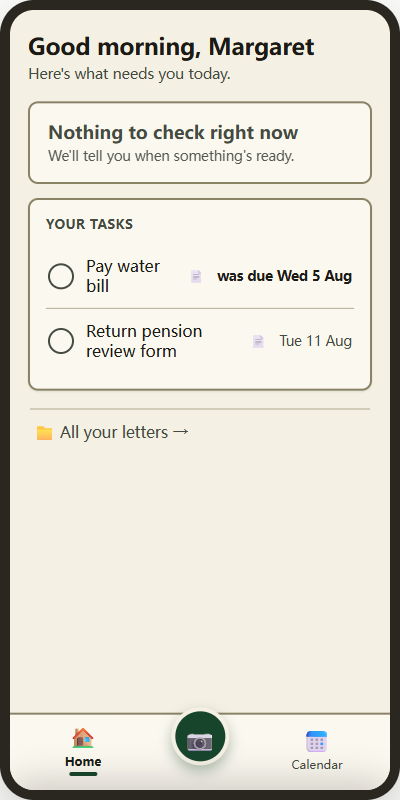
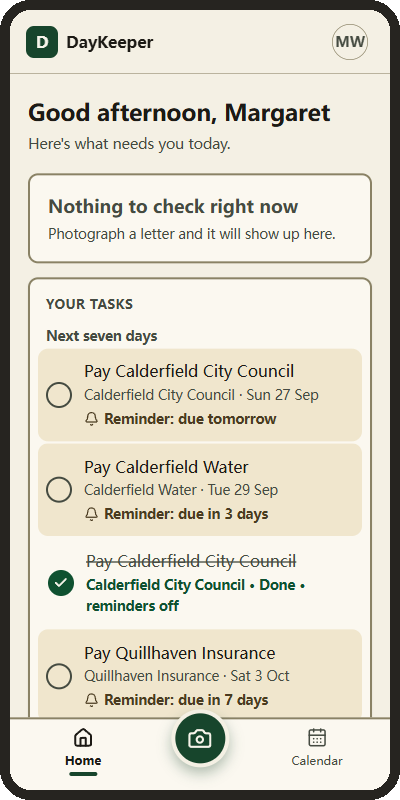
Describe reminders as days marked on Home in the docs and landing page
KAN-62, KAN-79. api.md, scope.md, start-here.md and theme.md no longer
describe a reminder being sent, fired or timed. The landing page's two
screenshots are retaken from the product: Home with its reminder rows,
and a calendar with only due date dots.

diff --git a/src/app/page.tsx b/src/app/page.tsx
@@ -160,7 +160,7 @@ export default function PublicEntryPage() {
             <div className="w-[54%] overflow-hidden rounded-2xl border border-border shadow-lg">
               <Image
                 src="/screens/home.png"
-                alt="DayKeeper's home screen: a short list of tasks, one overdue, one upcoming."
+                alt="DayKeeper's home screen: the week's tasks, three of them marked with a reminder."
                 width={400}
                 height={800}
                 className="h-auto w-full"
@@ -170,7 +170,7 @@ export default function PublicEntryPage() {
             <div className="mt-10 w-[54%] overflow-hidden rounded-2xl border border-border shadow-lg">
               <Image
                 src="/screens/calendar.png"
-                alt="DayKeeper's calendar: due dates in red, reminder mornings in gold."
+                alt="DayKeeper's calendar: a red dot on each day something is due."
                 width={400}
                 height={800}
                 className="h-auto w-full"

diff --git a/docs/api.md b/docs/api.md
@@ -30,7 +30,7 @@ reasoning attached. This document names them and does not repeat them:
 | what a field's status means, and `open_payload` | `src/lib/contract/extraction.ts` |
 | showing rather than asking, the upload limits, overdue in words | `src/lib/contract/api.ts` |
 | dates, times, and whose day it is | `src/lib/contract/dates.ts` |
-| the reminder ladder, and the clock check at fire time | `src/lib/contract/reminders.ts` |
+| the reminder ladder, and what a reminder is | `src/lib/contract/reminders.ts` |
 | sessions, passwords, and who is asking | `src/server/auth/` |
 | the tables, and why each column exists | `db/schema.sql` |
 
@@ -678,19 +678,11 @@ message. There is no fields array and no acknowledged array; see
     "reminders": [
       {
         "id": "4e7a2b90-1c55-4f08-8d21-7b3f9a0c6e42",
-        "scheduledFor": "2026-08-12T09:00:00+10:00",
-        "localDate": "2026-08-12",
-        "localTime": "09:00",
-        "channel": "in_app",
-        "status": "scheduled"
+        "localDate": "2026-08-12"
       },
       {
         "id": "9d1f4c02-3b6e-4a18-8f70-2c5d9e3a7b11",
-        "scheduledFor": "2026-08-14T09:00:00+10:00",
-        "localDate": "2026-08-14",
-        "localTime": "09:00",
-        "channel": "in_app",
-        "status": "scheduled"
+        "localDate": "2026-08-14"
       }
     ]
   }
@@ -698,9 +690,10 @@ message. There is no fields array and no acknowledged array; see
 ```
 
 Two reminders here, not three: the bill is due on the 15th and was confirmed on
-the 10th, so the earliest rung of the ladder would have landed in the past, and
-a reminder in the past is never created. `planReminders()` in
-`src/lib/contract/reminders.ts` is what drops it.
+the 10th, so the seven day rung of the ladder would have fallen on the 8th,
+already gone. `planReminders()` in `src/lib/contract/reminders.ts` keeps only
+the days that fall strictly after the day it is confirmed, so a rung landing
+on the confirm day itself is dropped as well, not only the ones already past.
 
 **A letter that asks for nothing** (`action_required` is `No action`) is saved
 and makes no task, so `task` is null:
@@ -739,8 +732,9 @@ to be shown as-is.
 
 ### Notes
 
-The returned task includes its reminders, so the calendar the person lands on
-can draw itself without a second request.
+The returned task includes its `dueDate` and its reminders, so the calendar
+the person lands on, and Home after it, can draw themselves without a second
+request.
 
 **After a save, the screen moves on by itself** (`src/lib/confirm-flow.ts`). A
 note says what was kept and where, and goes after three seconds; she is taken
@@ -850,19 +844,11 @@ from.
     "reminders": [
       {
         "id": "4e7a2b90-1c55-4f08-8d21-7b3f9a0c6e42",
-        "scheduledFor": "2026-08-12T09:00:00+10:00",
-        "localDate": "2026-08-12",
-        "localTime": "09:00",
-        "channel": "in_app",
-        "status": "scheduled"
+        "localDate": "2026-08-12"
       },
       {
         "id": "9d1f4c02-3b6e-4a18-8f70-2c5d9e3a7b11",
-        "scheduledFor": "2026-08-14T09:00:00+10:00",
-        "localDate": "2026-08-14",
-        "localTime": "09:00",
-        "channel": "in_app",
-        "status": "scheduled"
+        "localDate": "2026-08-14"
       }
     ]
   }
@@ -893,9 +879,12 @@ A task with no `dueDate` draws no calendar mark and has no reminders.
 Dismissed tasks are excluded. Nothing writes that state this semester; the
 filter is here so that adding the action later is a one-line change.
 
-Every summary carries its `reminders`, whatever their status: `scheduled`,
-`sent`, `skipped` or `failed`. This is what the calendar draws, and the day
-sheet words each one from its status.
+Every summary carries its `reminders`: the days planned for it, past ones
+included, each one just an id and a `localDate`. Nothing is ever sent, so
+there is nothing else to say about a reminder. The calendar does not draw from
+these; it draws only due dates. What a reminder day does is mark the task's
+own row on Home while the task is still open, on that day (`reminderToday()`
+in `src/lib/home.ts`).
 
 ## One task, in full
 
@@ -942,7 +931,8 @@ Marks it done. That is the entire write.
 **Code** : `200 OK`
 
 **Content** : `TaskSummary`, with `status: "completed"`. Its reminders come back
-untouched, still saying `scheduled`: they will simply not fire.
+untouched, the same days as before: a completed task simply stops being
+marked on them.
 
 ### Error Responses
 
@@ -951,11 +941,11 @@ untouched, still saying `scheduled`: they will simply not fire.
 
 ### Notes
 
-**No reminder row is written.** The dispatcher reads the task at the moment a
-reminder's time arrives and decides then whether to send;
-`src/lib/contract/reminders.ts` has that rule and the reason it lives at fire
-time rather than here. So "reminders off" on screen is derived truth, not a
-stored flag, and there is no bookkeeping for an untick to undo.
+**No reminder row is written.** `reminderToday()` in `src/lib/home.ts` checks
+whether a task is still open before it marks that task's row on a reminder
+day, and a completed task fails that check from the moment it is ticked. So
+"no more marks" on screen is derived truth, not a stored flag, and there is no
+bookkeeping for an untick to undo.
 
 ## Undo that
 
@@ -984,10 +974,10 @@ comes back `overdue`, because that is what the arithmetic now says.
 Ticking something off by accident should not need an apology, however long ago
 the accident was: this works on any completed task, forever.
 
-Nothing happens to reminders, in either direction. One whose time is still ahead
-will find the task open when its moment comes, and fire. One whose time has
-passed is history and stays what it became. The clock only rings forward, so
-unticking an old task cannot set off a late nag.
+Nothing happens to reminders, in either direction. A reminder day still ahead
+will find the task open again and mark its row when that day comes. A
+reminder day already behind is simply a day that has passed, and reopening an
+old task cannot make Home mark a day that is already gone.
 
 ---
 
@@ -1073,35 +1063,36 @@ is still being read, and both sit in `inbox`.
 **There is no calendar endpoint, on purpose.**
 
 The calendar is drawn from `GET /api/tasks`: one mark on each task's `dueDate`,
-another on each reminder's `localDate`. What those marks look like is in
-[`theme.md`](theme.md).
+filed by `tasksByDueDay()` in `src/lib/calendar.ts`. A dot means one thing, a
+task is due that day, and nothing else puts a dot on the grid. What that mark
+looks like is in [`theme.md`](theme.md).
 
-`ReminderView.localDate` is the server-computed calendar day in the user's zone,
-and `localTime` is computed beside it, so the client never turns an instant back
-into a day and gets it wrong by one, and the day sheet's "a reminder goes out
-this morning, 9 am" is data rather than copy.
+**Reminder days do not appear on the calendar.** KAN-62 made a reminder a mark
+on the task's own row on Home, not a second colour of dot: two kinds of dot on
+the same grid read as clutter, and the yardstick here is Google Calendar,
+which marks the day a thing happens and nothing else. `reminderToday()` in
+`src/lib/home.ts` is where a reminder day turns into a tint, a bell and a line
+("Reminder: due in 3 days", "Reminder: due tomorrow", or "Reminder:
+appointment tomorrow" when the letter named a time of day), and only while the
+task is still open. A ticked task is never marked, on a reminder day or
+otherwise.
 
-**Every reminder that exists gets a mark, whatever its status**, including ones
-already sent and ones skipped because the task was already done when the clock
-rang. A mark is a record of what this day held, not a forecast. The day sheet
-words each entry from the task and the day: a still-scheduled reminder for an
-open task gets the present tense, a day already behind today gets the past
-tense, and a ticked-off task gets "No reminder, this is already done", so the
-sheet never announces a nag that will never be sent.
+A reminder that would fall on or before the day the letter is confirmed is
+never planned in the first place (`planReminders()` in
+`src/lib/contract/reminders.ts`), so it never turns into a mark on Home
+either. That is why the plan card and what Home later shows always agree: she
+is shown the days that will be marked, agrees to those, and nothing marks a
+day she was not told about. Seeded data is the one exception, and
+deliberately so: it is building a world that already happened, so it plants
+reminder days that fall before today as well as ahead of it.
 
-A reminder whose day has already gone by is never planned and never created, so
-it has no mark. That is why the plan card and the calendar always agree: the
-person is shown the reminders that will happen, agrees to those, and sees marks
-for exactly those. Seeded data is the one exception, and deliberately so: it is
-building a world that already happened, so it plants past reminders already
-marked `sent`, and those do get marks.
-
-**The invariant that makes the calendar trustworthy: only a confirmed letter
-contributes.** A letter in `processing`, `needs-review` or `failed` produces no
-task, no reminder and no mark. Nothing reaches the calendar without a person
-having seen it. This is the product's central safety promise, not an
-implementation detail, and `src/lib/contract/api.ts` is where the shape that
-guarantees it is written down.
+**The invariant that makes both the calendar and Home trustworthy: only a
+confirmed letter contributes.** A letter in `processing`, `needs-review` or
+`failed` produces no task, no reminder and no mark anywhere. Nothing reaches
+the calendar or Home without a person having seen it. This is the product's
+central safety promise, not an implementation detail, and
+`src/lib/contract/api.ts` is where the shape that guarantees it is written
+down.
 
 ---
 
@@ -1114,9 +1105,6 @@ would mean building the wrong thing twice.
   *something* has to perform it: in-process after responding, a sweep over the
   waiting extraction runs, or a real queue. The schema supports all three;
   nobody has chosen
-- **sending reminders, the transport half.** What the dispatcher decides is
-  settled, in `src/lib/contract/reminders.ts`. What is still open is what wakes
-  it up: a cron job, a platform scheduler, or in-app only
 - **what the capture screen does at the limits.** A current phone camera clears
   `MAX_PAGE_BYTES` per frame routinely. Whether the client downscales to fit or
   refuses the photograph, and what the screen says at the last page, is

diff --git a/docs/theme.md b/docs/theme.md
@@ -48,8 +48,8 @@ colours and 30 preferred. The page and card tones are warm, aged-paper colours,
 and the darkest ink still carries a trace of warmth.
 
 **4. Gold is never text.** Saturated yellow on a light ground reaches about
-2:1, which is a trap rather than a colour. Gold appears in exactly two places:
-the lining of the focus ring, and the reminder dot on the calendar.
+2:1, which is a trap rather than a colour. Gold appears in exactly one place:
+the lining of the focus ring.
 
 **5. Colour is never the only signal.** Every state carries a word as well as a
 colour, and the selected tab is marked by weight and a bar rather than by hue.
@@ -79,7 +79,7 @@ colour is a state some readers cannot see.
 | `--warn-ink` | `#4a3b20` | bark brown: "we are not sure, please look" |
 | `--warn-bg` | `#f0e6cd` | sandy yellow behind it |
 | `--dot-due` | `#8c0d07` | the calendar's due marks |
-| `--dot-rem` | `#b87500` | the calendar's reminder marks |
+| `--dot-rem` | `#b87500` | no longer drawn on the calendar (KAN-62); kept as `--chart-4` and a landing-page swatch |
 
 Sizes travel with the palette: `--btn-h` 56px, `--radius-card` 10px,
 `--radius-btn` 8px, `--border-w` 2px. A primary button is at least 48px tall;
@@ -146,7 +146,6 @@ Lowest text pair 7.23:1, lowest non-text pair 3.37:1.
 | borders on card | 3.6:1 | 3 |
 | borders on page | 3.4:1 | 3 |
 | due dot on card | 9.1:1 | 3 |
-| reminder dot on card | 3.5:1 | 3 |
 | focus lining on ring | 12.1:1 | 3 |
 | focus ring on page | 15.4:1 | 3 |
 
@@ -255,7 +254,8 @@ an ordinary `<Button>` comes out eucalypt green with no work.
 For the states shadcn has no name for, use the DayKeeper classes:
 `text-warn` on `bg-warn-bg`, `text-danger` on `bg-danger-bg`, `text-success` on
 `bg-success-bg`, plus `text-ink-dim`, `border-line`, `bg-primary-soft`,
-`bg-dot-due`, `bg-dot-rem`.
+`bg-dot-due`. A reminder marks the task's own row with `text-warn` on
+`bg-warn-bg`, the same pair the missing-value note uses, not a dot.
 
 **Never type a hex value into a component.** If a colour you need is not in the
 palette, that is a design question, not a styling one: bring it to the team

diff --git a/docs/scope.md b/docs/scope.md
@@ -19,14 +19,14 @@ the list below, this document wins and that document is wrong.
 7. Confirming writes the tables. The letter is stored with its photographs, and the
    action it carries becomes a task with a due date.
 8. The task appears on the home list and on the calendar.
-9. Reminders fire seven days, three days and one day before the due date.
+9. Seven days, three days and one day before the due date, Home marks the task's own row as a reminder.
 10. Ticking the task is the only thing that completes it, and an overdue task that has
     not been ticked sits at the top of the home list.
 11. A letters area holds what has been read, and opening a letter shows the photographs
     that came with it.
 
-A person can go from a piece of paper on the kitchen table to a reminder that arrives in
-time, and the shortest description of the product is still two verbs: photograph, and
+A person can go from a piece of paper on the kitchen table to a task on Home that
+reminds her in time, and the shortest description of the product is still two verbs: photograph, and
 tick.
 
 ## Not in this release
@@ -56,5 +56,5 @@ six fields and may return more, with the extra kept in `open_payload`. A value t
 was not sure of never reaches a screen, and nobody is offered an empty box to fill in;
 [`src/lib/contract/extraction.ts`](../src/lib/contract/extraction.ts) says what happens
 to it instead. A task's tick is its only state, and whether a task is
-overdue is worked out from the clock when a reminder fires rather than stored. The theme
+overdue is worked out from the clock rather than stored. The theme
 is Eucalypt and Wattle, and every rule in [`theme.md`](theme.md) still holds.

diff --git a/docs/start-here.md b/docs/start-here.md
@@ -21,7 +21,7 @@ Three things, and deliberately only three:
 **The API and the pages follow `docs/api.md`.** Sign in, the letters
 (upload, list, open, confirm, page images, home) and the tasks endpoints exist
 and the screens read them: a photographed letter is read, checked, saved and
-lands on the calendar. Sending the reminders is the next piece. When you add an
+lands on the calendar with its reminders marked. When you add an
 endpoint, add it to that file first: it is the specification, with the
 reasoning for the parts that look arbitrary.
 
@@ -232,8 +232,8 @@ formatting is `formatDueDate()`.
 
 **The reminder schedule has exactly one home, `planReminders()`.** The confirm
 handler creates rows from it and the review screen previews the plan with it.
-If you find yourself typing an offset in days, or the hour they go out, you are
-creating the second copy that lets the promise and the behaviour disagree.
+If you find yourself typing an offset in days, you are creating the second
+copy that lets the promise and the behaviour disagree.
 
 Two things about the document flow that are design decisions rather than
 implementation details:
